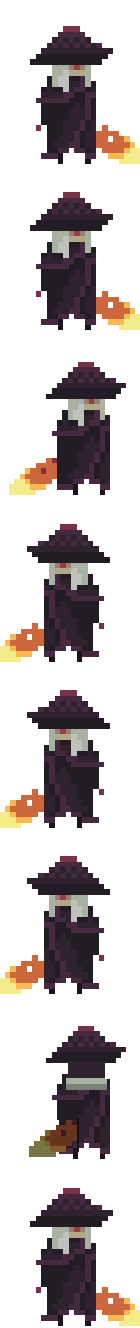
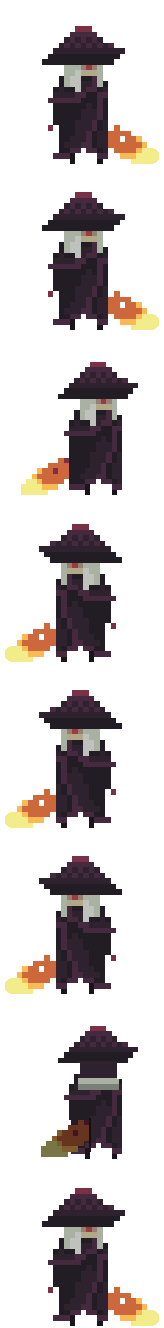
CAS-651/CAS-801: un-clip warrior sword flame in idle8/walk8 lateral rows
The CAS-470 redesigned grids baked the flaming sword flush against the
140px cell edge on the 6 lateral-ish rows (E/SE/NE right, SW/W/NW left):
the tip was truncated at bake and rendered as a flat cut in-game. Widen
every cell 140->164 (+12 per side, original pixels preserved, re-centered)
and continue the flame past the old boundary with a quarter-circle taper
sampled from the cut cross-section, so the tip ends 4-5px inside the cell.
dash8 (400px cells) has no clip and is untouched. DIR8_AX idle8/walk8
shifted +12 to match; anchors verified against torso-band centroids
(idle <=4.7px, walk <=11.5px). QA: tools/cas651-sword-align.mjs PASS
(24/24 direction-frames no clip/float); before/after in shots/.

diff --git a/render/render.js b/render/render.js
@@ -175,8 +175,8 @@ const CLASS_IDLE8_FC=1, CLASS_WALK8_FC=8, CLASS_WALK8_FPS=8;
 const DIR8_AX={
   // CAS-470: grids rediseñados desde el arte ORIGINAL de Clarice (idle/run laterales,
   // espada re-anclada a la mano DELANTERA). Filas laterales centradas al hornear.
-  clsidle8_warrior:[70,70,84,69,69,69,81,70],
-  clswalk8_warrior:[70,70,85,69,69,69,83,70],
+  clsidle8_warrior:[82,82,96,81,81,81,93,82],
+  clswalk8_warrior:[82,82,97,81,81,81,95,82],
   clsdash8_warrior:[162,163,162,236,236,233,158,166],
 }; // 8f@8fps → cycle 1.0s (footfall 0.5s, in CAS-219/240 0.4–0.6s band)
 // Snap a screen-space facing angle (atan2(dy,dx), y-down) to one of 8 row buckets.
